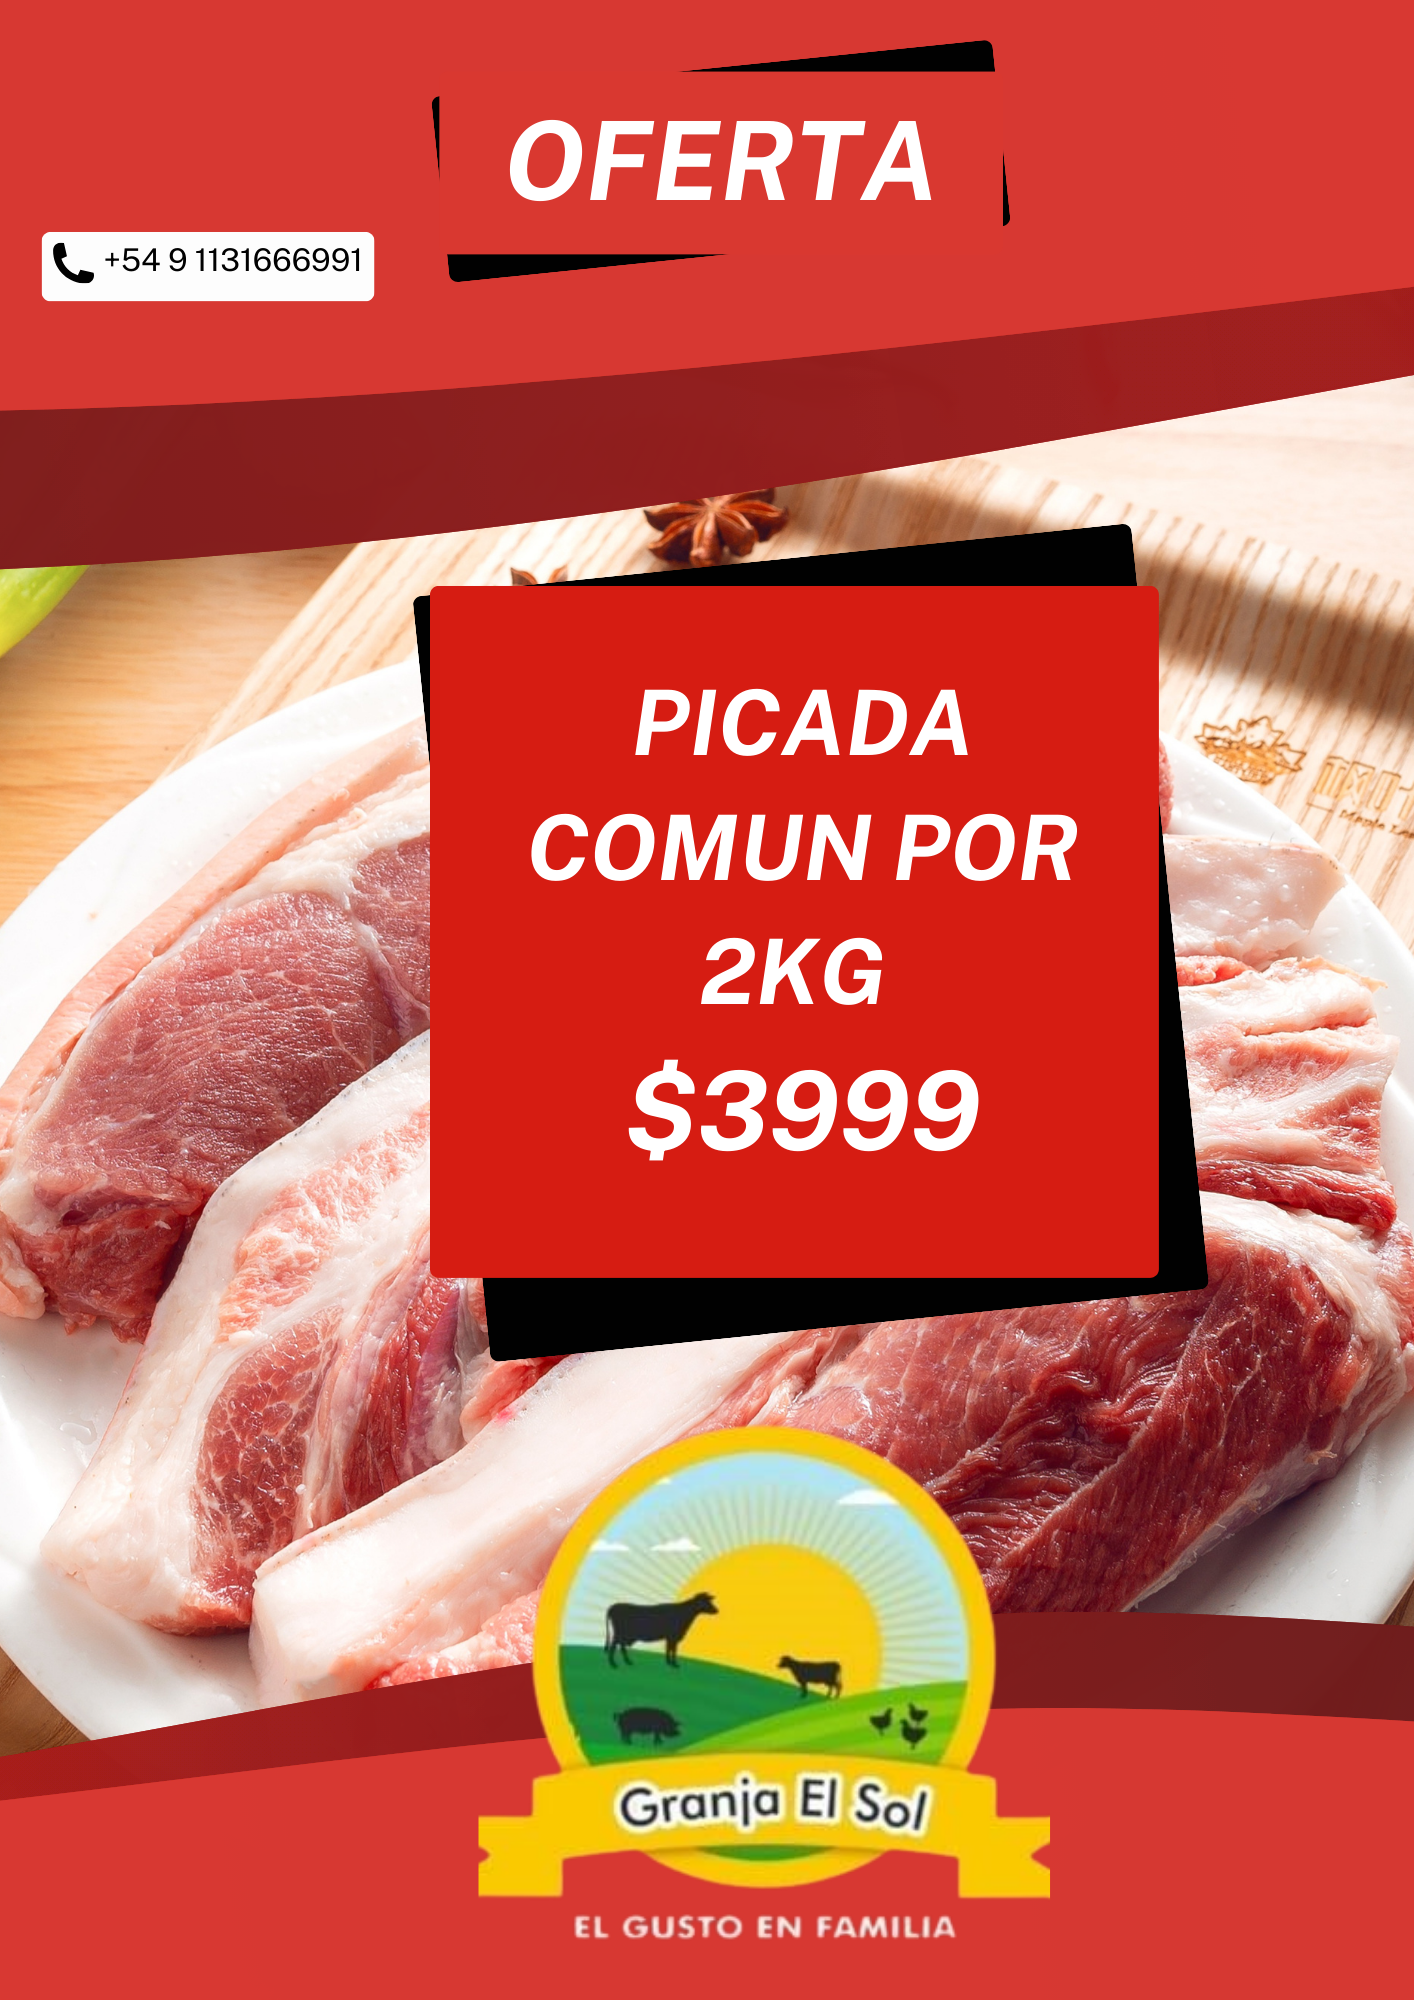
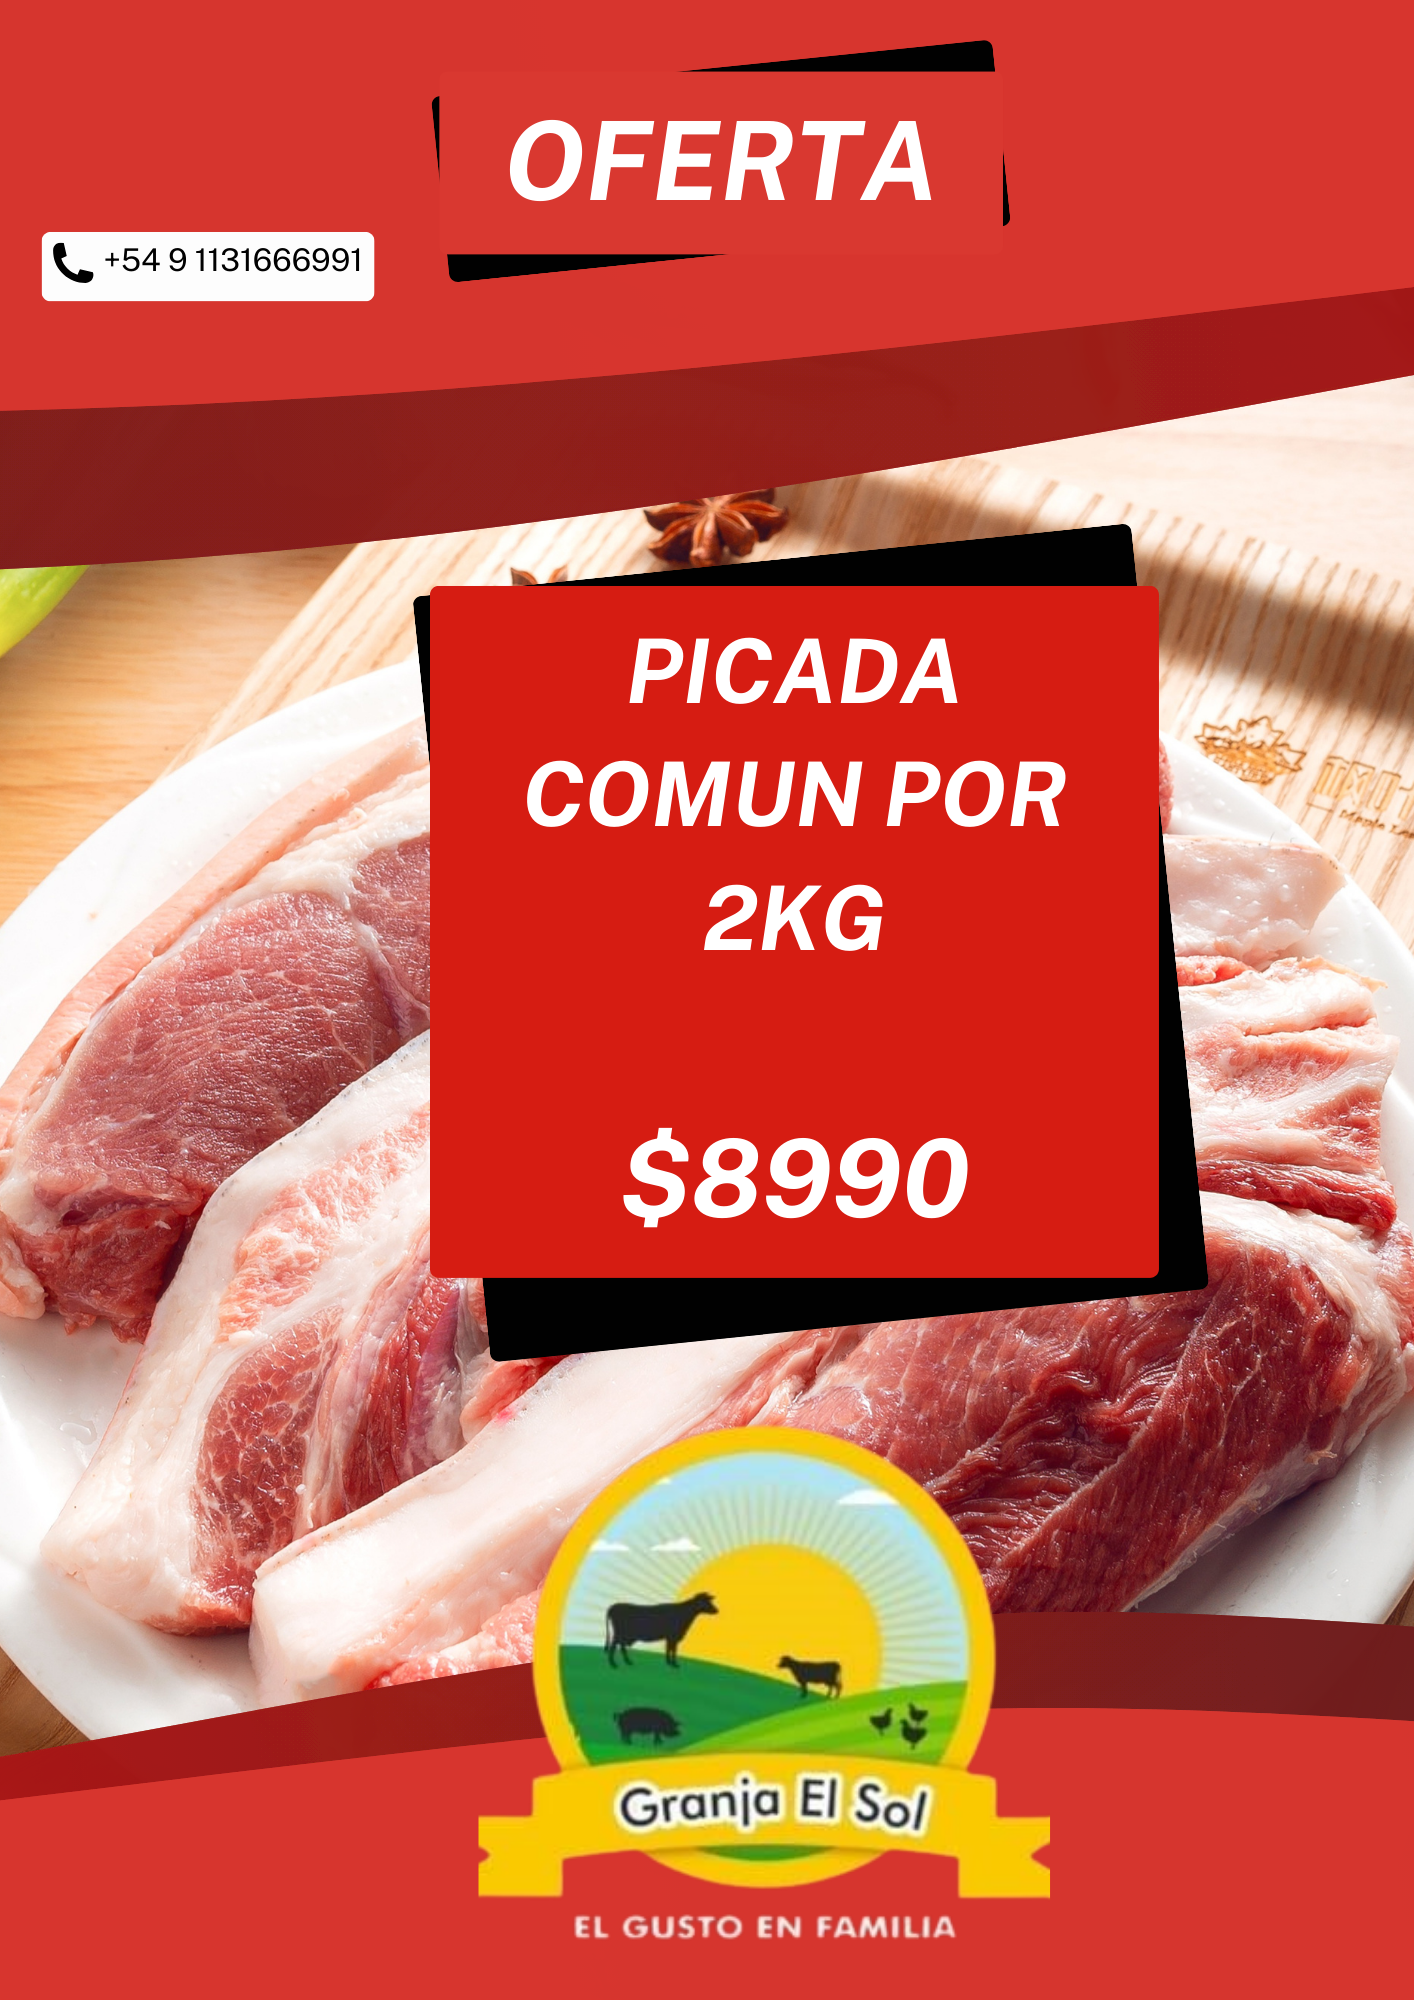
modified products

Changed region(s): [[0.3734, 0.31, 0.7779, 0.62]]

diff --git a/src/Components/Ofertas.jsx b/src/Components/Ofertas.jsx
@@ -4,23 +4,17 @@ import 'swiper/css';
 import ofertaespinazo from "../img/ofertas/ofertaespinazo.png";
 import ofertabifeancho from "../img/ofertas/ofertabifeancho.png";
 import ofertabifeangosto from "../img/ofertas/ofertabifeangosto.png";
-import ofertacosteletacerdo from "../img/ofertas/ofertacosteletacerdo.png";
-import ofertafalda from "../img/ofertas/ofertafalda.png";
 import ofertapatycasero from "../img/ofertas/ofertapatycasero.png";
 import ofertapicadacomun from "../img/ofertas/ofertapicadacomun.png";
-import ofertaasado from "../img/ofertas/ofertaasado.png";
 import ofertamatambre from "../img/ofertas/ofertamatambre.png";
 import ofertapicadaespecial from "../img/ofertas/ofertapicadaespecial.png";
 import ofertatapaasado from "../img/ofertas/ofertatapaasado.png";
 import ofertaboladelomo from "../img/ofertas/ofertaboladelomo.png";
-import ofertabondiola from "../img/ofertas/ofertabondiola.png";
-import ofertacuadrada from "../img/ofertas/ofertacuadrada.png";
 import ofertaosobuco from "../img/ofertas/ofertaosobuco.png";
 import ofertapaleta from "../img/ofertas/ofertapaleta.png";
-import ofertapechitodecerdo from "../img/ofertas/ofertapechitodecerdo.png";
 import ofertatapadenalga from "../img/ofertas/ofertatapadenalga.png";
 import ofertadescuento from "../img/ofertas/ofertadescuento.png";
-import ofertaroastebeef from "../img/ofertas/ofertaroastebeef.png";
+import ofertaroastebeef from "../img/ofertas/ofertaroastbeef.png";
 
 
 
@@ -55,23 +49,19 @@ function CarrouselSwip() {
                         <SwiperSlide><img className='w-100' src={ofertadescuento} alt="" /></SwiperSlide>
                         <SwiperSlide><img className='w-100' src={ofertaespinazo} alt="" /></SwiperSlide>
                         <SwiperSlide><img className='w-100' src={ofertabifeangosto} alt="" /></SwiperSlide>
-                        <SwiperSlide><img className='w-100' src={ofertacosteletacerdo} alt="" /></SwiperSlide>
-                        <SwiperSlide><img className='w-100' src={ofertafalda} alt="" /></SwiperSlide>
+                        <SwiperSlide><img className='w-100' src={ofertabifeancho} alt="" /></SwiperSlide>
                         <SwiperSlide><img className='w-100' src={ofertapatycasero} alt="" /></SwiperSlide>
-                        {/* <SwiperSlide><img className='w-100' src={ofertapicadacomun} alt="" /></SwiperSlide> */}
-                        {/* <SwiperSlide><img className='w-100' src={ofertaasado} alt="" /></SwiperSlide> */}
-                        {/* <SwiperSlide><img className='w-100' src={ofertamatambre} alt="" /></SwiperSlide> */}
-                        {/* <SwiperSlide><img className='w-100' src={ofertapicadaespecial} alt="" /></SwiperSlide> */}
-                        <SwiperSlide><img className='w-100' src={ofertadescuento} alt="" /></SwiperSlide>
                         <SwiperSlide><img className='w-100' src={ofertatapaasado} alt="" /></SwiperSlide>
                         <SwiperSlide><img className='w-100' src={ofertaboladelomo} alt="" /></SwiperSlide>
-                        {/* <SwiperSlide><img className='w-100' src={ofertabondiola} alt="" /></SwiperSlide> */}
-                        {/* <SwiperSlide><img className='w-100' src={ofertacuadrada} alt="" /></SwiperSlide> */}
-                        {/* <SwiperSlide><img className='w-100' src={ofertaosobuco} alt="" /></SwiperSlide> */}
+                        <SwiperSlide><img className='w-100' src={ofertamatambre} alt="" /></SwiperSlide>
+                        <SwiperSlide><img className='w-100' src={ofertadescuento} alt="" /></SwiperSlide>
+                        <SwiperSlide><img className='w-100' src={ofertapicadacomun} alt="" /></SwiperSlide>
+                        <SwiperSlide><img className='w-100' src={ofertapicadaespecial} alt="" /></SwiperSlide>
+                        <SwiperSlide><img className='w-100' src={ofertaosobuco} alt="" /></SwiperSlide>
                         <SwiperSlide><img className='w-100' src={ofertapaleta} alt="" /></SwiperSlide>
-                        <SwiperSlide><img className='w-100' src={ofertapechitodecerdo} alt="" /></SwiperSlide>
-                        {/* <SwiperSlide><img className='w-100' src={ofertaroastebeef} alt="" /></SwiperSlide> */}
+                        <SwiperSlide><img className='w-100' src={ofertaroastebeef} alt="" /></SwiperSlide>
                         <SwiperSlide><img className='w-100' src={ofertatapadenalga} alt="" /></SwiperSlide>
+                        <SwiperSlide><img className='w-100' src={ofertatapaasado} alt="" /></SwiperSlide>
                         
                         {/* ... Agrega más diapositivas según sea necesario */}
                     </Swiper>

diff --git a/src/Components/Productos.jsx b/src/Components/Productos.jsx
@@ -58,7 +58,7 @@ const carne = [
     id: 2,
     image: `${americano}`,
     name: "Americano",
-    description: "$6790",
+    description: "$7890",
   },
   {
     id: 3,
@@ -70,7 +70,7 @@ const carne = [
     id: 4,
     image: `${entraña}`,
     name: "Entraña",
-    description: "$7990",
+    description: "$8990",
   },
   {
     id: 1,
@@ -82,13 +82,13 @@ const carne = [
     id: 2,
     image: `${lomo}`,
     name: "Lomo",
-    description: "$9490",
+    description: "$10290",
   },
   {
     id: 3,
     image: `${bifeangosto}`,
     name: "Bife angosto",
-    description: "$5990",
+    description: "$7390",
   },
   {
     id: 4,
@@ -118,13 +118,13 @@ const carne = [
     id: 8,
     image: `${tapadenalga}`,
     name: "Tapa de nalga",
-    description: "$6790",
+    description: "$7790",
   },
   {
     id: 9,
     image: `${osobuco}`,
     name: "Osobuco",
-    description: "$2990",
+    description: "$4490",
   },
   {
     id: 10,
@@ -142,20 +142,20 @@ const carne = [
     id: 12,
     image: `${ojodebife}`,
     name: "Ojo de bife",
-    description: "$8490",
+    description: "$9990",
   },
   {
     id: 13,
     image: `${picaña}`,
     name: "Picaña",
-    description: "$7190",
+    description: "$8990",
   },
 
   {
     id: 14,
     image: `${colitacuadril}`,
     name: "Colita de cuadril",
-    description: "$7290",
+    description: "$8890",
   },
   {
     id: 15,
@@ -191,19 +191,19 @@ const carne = [
     id: 20,
     image: `${bifedechorizo}`,
     name: "Bife de chorizo",
-    description: "$4990",
+    description: "$9890",
   },
   {
     id: 21,
     image: `${espinazo}`,
     name: "Espinazo",
-    description: "$2700",
+    description: "$2990",
   },
   {
     id: 22,
     image: `${tortuguita}`,
     name: "Tortuguita",
-    description: "$3290",
+    description: "$6690",
   },
   {
     id: 23,
@@ -221,7 +221,7 @@ const carne = [
     id: 25,
     image: `${miladecarne}`,
     name: "Milanesa de carne",
-    description: "$7290",
+    description: "$7990",
   },
   {
     id: 26,
